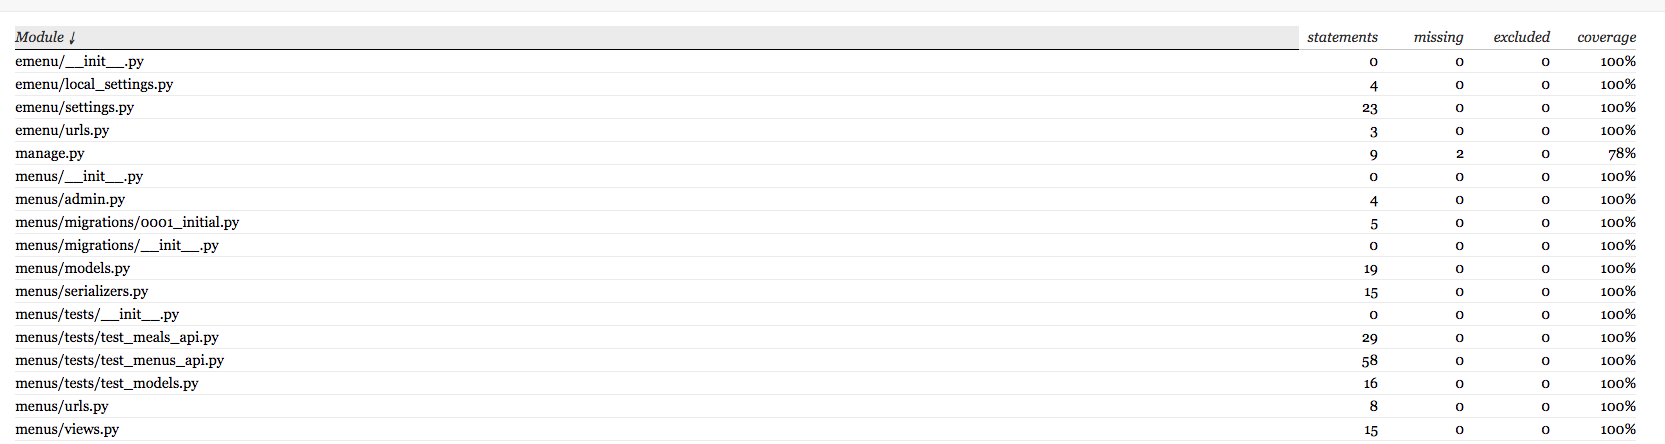
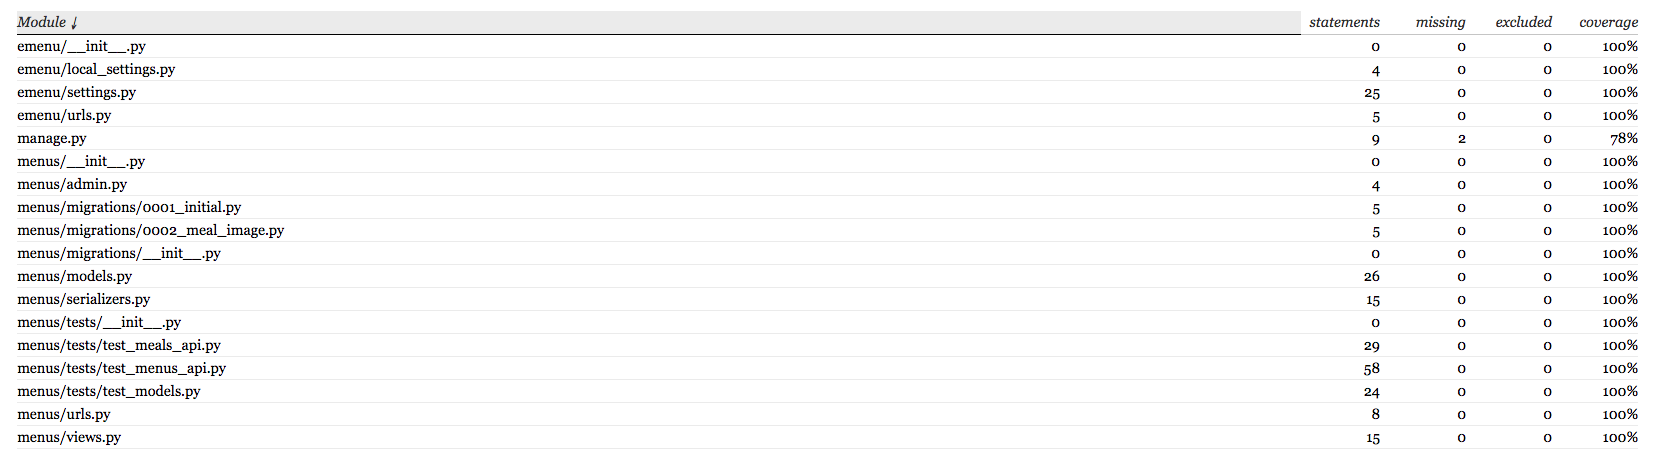
Added tests for image field, updated eMenu_coverage.png

diff --git a/menus/tests/test_models.py b/menus/tests/test_models.py
@@ -1,6 +1,9 @@
+from unittest.mock import patch
+
 from django.test import TestCase
 
 from menus.models import Menu, Meal
+from menus import models
 
 
 def create_meal(name='meal', description='meal', price=1.99, time_minutes=30):
@@ -21,6 +24,16 @@ class MealTests(TestCase):
 
         self.assertTrue(isinstance(meal, Meal))
         self.assertEqual(str(meal), meal.name)
+
+    @patch('uuid.uuid4')
+    def test_meal_file_name_uuid(self, mock_uuid):
+        """Test that image is saved in the correct location"""
+        uuid = 'test-uuid'
+        mock_uuid.return_value = uuid
+        file_path = models.meal_image_file_path(None, 'image.jpg')
+    
+        exp_path = f'uploads/meal/{uuid}.jpg'
+        self.assertEqual(file_path, exp_path)
 
 
 class MenuTests(TestCase):
